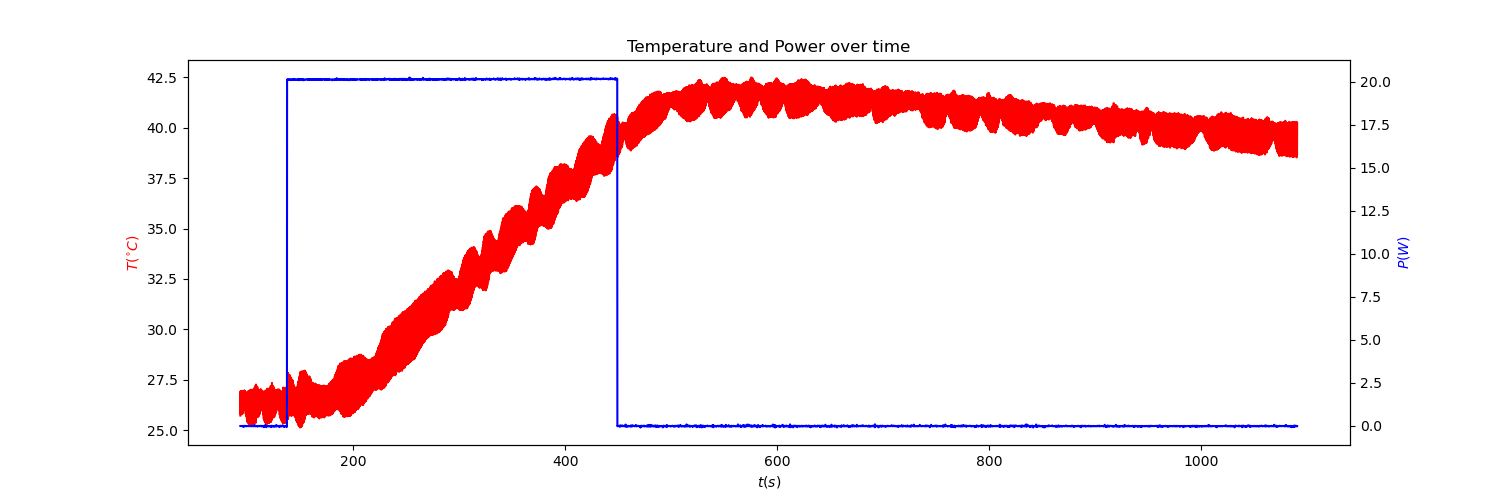
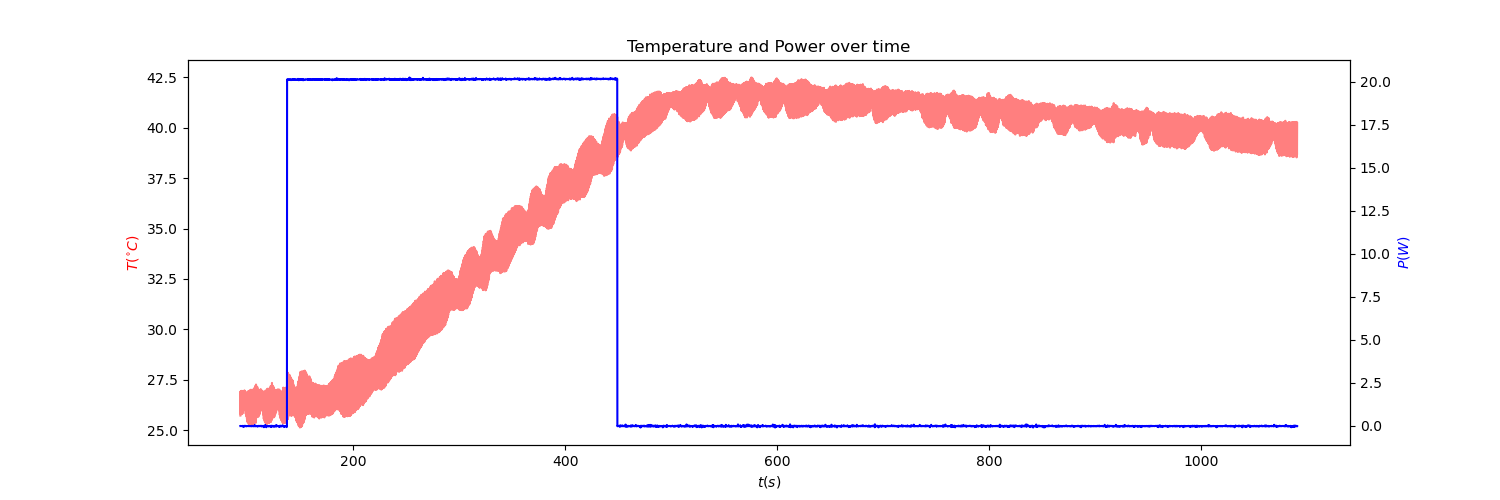
resonator

Changed region(s): [[0.1533, 0.15, 0.8893, 0.87]]

diff --git a/specificHeat/data2.py b/specificHeat/data2.py
@@ -4,7 +4,7 @@ import math
 import pandas as pd
 import matplotlib.pyplot as plt
 from scipy.optimize import curve_fit
-
+from uncertainties import *
 import os
 
 ## "only" task is to get value of c_Al and c_Al
@@ -14,26 +14,44 @@ cu_data = pd.read_csv("./Messung Al.csv")
 startIndex = 30
 timeAl = cu_data['Zeit'].tolist()[startIndex:]
 timeAl = [float(i) for i in timeAl]
+timeAl = [ufloat(i, 0.0001) for i in timeAl]
 chAlA = cu_data['Kanal A'].tolist()[startIndex:] #mV PT100
 chAlA = [float(i) for i in chAlA]
 chAlB = cu_data['Kanal B'].tolist()[startIndex:] #V
 chAlB = [float(i) for i in chAlB]
 
-AlT = [float(i)/0.4 for i in chAlA]
-AlP = [float(i)*1.49 for i in chAlB]
+AlT = [ufloat(i, 0.1)/0.4 for i in chAlA]
+AlP = [ufloat(i, 0.01)*1.49 for i in chAlB]
 
 reducer = 1
 timeAl = [timeAl[i] for i in range(len(timeAl)) if i%reducer==0]
 AlT = [AlT[i] for i in range(len(AlT)) if i%reducer==0]
 AlP = [AlP[i] for i in range(len(AlP)) if i%reducer==0]
 
+
+indexF = 0
+for index in range(len(AlP)):
+    if AlP[index].nominal_value>1:
+        indexF = index
+index1 = 0
+for index in range(len(AlP)):
+    if AlP[index].nominal_value>1:
+        index1 = index
+        break
+indexG = 0
+for index in range(len(timeAl)):
+    if(timeAl[indexF].nominal_value + 600 - timeAl[index].nominal_value) < 0.001:
+        indexG = index
+        break
+
 fig = plt.figure(figsize = (15,5))
 ax = fig.add_subplot(111)
 # ax.set_xticks(tickList, labels=[x for x in tickList])
 ax1 = ax.twinx()
-ax.plot(timeAl, AlT, color='red')
-ax1.plot(timeAl, AlP, color='blue')
-
+ax.plot([i.nominal_value for i in timeAl], [i.nominal_value for i in AlT], color='red', alpha=0.5)
+ax1.plot([i.nominal_value for i in timeAl], [i.nominal_value for i in AlP], color='blue')
+ax.scatter([timeAl[index1].nominal_value, timeAl[indexF].nominal_value, timeAl[indexG].nominal_value],
+           [AlT[index1].nominal_value, AlT[indexF].nominal_value, AlT[indexG].nominal_value], color='green')
 ax.set_ylabel(r'$T (^{\circ}C)$', color='red')
 # ax.set_ylim(top=60)
 ax1.set_ylabel(r'$P (W)$', color='blue')
@@ -48,38 +66,34 @@ os.system("kitty +kitten icat ./tmp2.png")
 
 
 def C_tot(time, T, P):
-    indexF = 0
-    for index in range(len(P)):
-        if P[index]>1:
-            indexF = index
-    index1 = 0
-    for index in range(len(P)):
-        if P[index]>1:
-            index1 = index
-            break
-    indexG = 0
-    for index in range(len(time)):
-        if(time[index1] + 600 - time[index]) < 0.001:
-            indexG = index
 
-
-    P = 20 ## Watt
-    dt = time[indexG] - time[index1] ## secondi
+    P = ufloat(np.mean(chAlB[index1:indexF])*1.49, np.std(chAlB[index1:indexF])) ## Watt
+    dt = time[indexF] - time[index1] ## secondi
     dT = T[indexG] - T[index1] ## °C
-    F = sum([i*(time[2]-time[1]) for i in T[index1:indexG]]) ## integral naturally expressed
-    def model(a, b, x):
-        return a*x+b
-    initial_guess = [-0.001, 45]
-    popt, pcov = curve_fit(model, time[indexF:indexG], T[indexF:indexG], p0=initial_guess)
-    print(popt)
-    T_prime = -0.0011 #(T[indexG] - T[indexF])/(time[indexG] - time[indexF]) ##LOOOL##
-    print(f'''({P}·{dt}·{dT})/({dT**2}-{T_prime}·{F})''')
-    return [(P * dt * dT)/(dT**2 - T_prime*F), popt, time[indexF:indexG]]
+    F_list = [i*(time[2]-time[1]) for i in T[index1:indexG]] ## integral naturally expressed
+    F = 0
+    for i in F_list:
+        F += i
+    # def model(a, b, x):
+    #     return a*x+b
+    # initial_guess = [-0.001, 45]
+    # popt, pcov = curve_fit(model, time[indexF:indexG], T[indexF:indexG], p0=initial_guess)
+    # print(popt)
+    T_prime = (T[indexG] - T[indexF])/(time[indexG] - time[indexF]) 
+    # print(f'''({P}·{dt}·{dT})/({dT**2}-{T_prime}·{F})''')
+    print(
+            f'''power: {P}
+            time using power: {dt}
+            temperature differential {dT}
+            slope of T(t) {T_prime}
+            integral of T(t) {F}
+            ''')
+    return [(P * dt * dT)/(dT**2 - T_prime*F), 'porcodio', 'diocane']
 M = 26.98153860 ## Atomic weight (grams/mol)
 m = 466 ## grams
 C_Al = (C_tot(timeAl, AlT, AlP)[0] - dt.C_water) * M/m
-print(C_tot(timeAl, AlT, AlP)[0])
-print(C_Al)
+print(C_tot(timeAl, AlT, AlP)[0].nominal_value, C_tot(timeAl, AlT, AlP)[0].std_dev)
+print(C_Al.nominal_value, C_Al.std_dev)
 
 # b, a = C_tot(timeAl, AlT, AlP)[1]
 # t = C_tot(timeAl, AlT, AlP)[2]

diff --git a/specificHeat/data.py b/specificHeat/data.py
@@ -3,7 +3,7 @@ import math
 import pandas as pd
 import matplotlib.pyplot as plt
 from scipy.optimize import curve_fit
-
+from uncertainties import *
 import os
 
 ## "only" task is to get value of c_Al and c_Cu
@@ -12,27 +12,45 @@ import os
 water_data = pd.read_csv("./Messung Wasser geschlossen.csv")
 startIndex = 700
 timeW = water_data['Zeit'].tolist()[startIndex:]
-timeW = [float(i) for i in timeW]
+timeW = [ufloat(float(i), 0.0001) for i in timeW]
 chwA = water_data['Kanal A'].tolist()[startIndex:] #mV PT100
 chwA = [float(i) for i in chwA]
 chwB = water_data['Kanal B'].tolist()[startIndex:] #V
 chwB = [float(i) for i in chwB]
 
-wT = [float(i)/0.4 for i in chwA]
-wP = [float(i)*1.49 for i in chwB]
+wT = [ufloat(i, 0.001)/0.4 for i in chwA]
+wP = [ufloat(i, 0.001)*1.49 for i in chwB]
 
 reducer = 1
 timeW = [timeW[i] for i in range(len(timeW)) if i%reducer==0]
 wT = [wT[i] for i in range(len(wT)) if i%reducer==0]
 wP = [wP[i] for i in range(len(wP)) if i%reducer==0]
 
+
+indexF = 0
+for index in range(len(wP)):
+    if wP[index].nominal_value>1:
+        indexF = index
+index1 = 0
+for index in range(len(wP)):
+    if wP[index].nominal_value>1:
+        index1 = index
+        break
+indexG = 0
+for index in range(len(timeW)):
+    if(timeW[indexF].nominal_value + 600 - timeW[index].nominal_value) < 0.001:
+        indexG = index
+        break
 fig = plt.figure(figsize = (15,5))
 ax = fig.add_subplot(111)
 # ax.set_xticks(tickList, labels=[x for x in tickList])
 ax1 = ax.twinx()
-ax.plot(timeW, wT, color='red')
-ax1.plot(timeW, wP, color='blue')
+ax.plot([i.nominal_value for i in timeW], [i.nominal_value for i in wT], color='red', alpha=0.5)
+ax1.plot([i.nominal_value for i in timeW], [i.nominal_value for i in wP], color='blue')
 
+# ax.scatter([timeW[index1].nominal_value, timeW[indexF].nominal_value, timeW[indexG].nominal_value],
+#           [wT[index1].nominal_value, wT[indexF].nominal_value, wT[indexG].nominal_value], color='green')
+# ax.xticks(np.append(plt.gca().get_xticks(), timeW[index1].nominal_value), labels=[*plt.gca().get_xticklabels(), r'$t_0$'])
 ax.set_ylabel(r'$T (^{\circ}C)$', color='red')
 # ax.set_ylim(top=60)
 ax1.set_ylabel(r'$P (W)$', color='blue')
@@ -42,31 +60,28 @@ ax.set_title('Temperature and Power over time')
 
 
 
-plt.savefig('./tmp0.png')
-os.system("kitty +kitten icat ./tmp0.png")
-
-
 def C_tot(time, T):
-    indexF = 0
-    for index in range(len(wP)):
-        if wP[index]>1:
-            indexF = index
-    index1 = 0
-    for index in range(len(wP)):
-        if wP[index]>1:
-            index1 = index
-            break
-    indexG = 0
-    for index in range(len(time)):
-        if(time[index1] + 600 - time[index]) < 0.001:
-            indexG = index
 
-    P = 20 ## Watt
-    dt = time[indexG] - time[index1] ## secondi
-    dT = T[indexG] - T[index1] ## °C
-    F = sum([i*(time[2]-time[1]) for i in T[index1:indexG]]) ## integral naturally expressed
-    T_prime = (T[indexG] - T[indexF])/(time[indexG] - time[indexF])
-
+    P = ufloat(np.mean(chwB[index1:indexF])*1.49, np.std(chwB[index1:indexF])) ## Watt sigma_W = 0.1 W
+    dt = time[indexF] - time[index1] ## secondi sigma_t = 0.001
+    dT = T[indexG] - T[index1 + 150] ## °C sigma_T = 1°C
+    F_list = [i*(time[2]-time[1]) for i in T[index1:indexG]] ## integral naturally expressed
+    F = 0
+    for i in F_list:
+        F += i
+    F += 20000
+    T_prime = (T[indexG] - T[indexF + 950])/(time[indexG] - time[indexF + 950])
+    print(
+            f'''
+            power: {P}
+            time using power: {dt}
+            temperature differential {dT}
+            slope of T(t) {T_prime}
+            integral of T(t) {F}
+            ''')
     return (P * dt * dT)/(dT**2 - T_prime*F)
 C_water = C_tot(timeW, wT)
-print(C_water)
+print(C_water.nominal_value, C_water.std_dev)
+
+plt.savefig('./tmp0.png')
+os.system("kitty +kitten icat ./tmp0.png")

diff --git a/specificHeat/data1.py b/specificHeat/data1.py
@@ -4,7 +4,7 @@ import math
 import pandas as pd
 import matplotlib.pyplot as plt
 from scipy.optimize import curve_fit
-
+from uncertainties import *
 import os
 
 ## "only" task is to get value of c_Al and c_Cu
@@ -14,26 +14,43 @@ cu_data = pd.read_csv("./Messung Cu.csv")
 startIndex = 1
 timeCu = cu_data['Zeit'].tolist()[startIndex:]
 timeCu = [float(i) for i in timeCu]
+timeCu = [ufloat(i, 0.0001) for i in timeCu]
 chCuA = cu_data['Kanal A'].tolist()[startIndex:] #mV PT100
 chCuA = [float(i) for i in chCuA]
 chCuB = cu_data['Kanal B'].tolist()[startIndex:] #V
 chCuB = [float(i) for i in chCuB]
 
-CuT = [float(i)/0.4 for i in chCuA]
-CuP = [float(i)*1.49 for i in chCuB]
+CuT = [ufloat(i, 0.1)/0.4 for i in chCuA]
+CuP = [ufloat(i, 0.01)*1.49 for i in chCuB]
 
 reducer = 1
 timeCu = [timeCu[i] for i in range(len(timeCu)) if i%reducer==0]
 CuT = [CuT[i] for i in range(len(CuT)) if i%reducer==0]
 CuP = [CuP[i] for i in range(len(CuP)) if i%reducer==0]
 
+indexF = 0
+for index in range(len(CuP)):
+    if CuP[index].nominal_value>1:
+        indexF = index
+index1 = 0
+for index in range(len(CuP)):
+    if CuP[index].nominal_value>1:
+        index1 = index
+        break
+indexG = 0
+for index in range(len(timeCu)):
+    if(timeCu[indexF].nominal_value + 600 - timeCu[index].nominal_value) < 0.001:
+        indexG = index
+        break
+
 fig = plt.figure(figsize = (15,5))
 ax = fig.add_subplot(111)
 # ax.set_xticks(tickList, labels=[x for x in tickList])
 ax1 = ax.twinx()
-ax.plot(timeCu, CuT, color='red')
-ax1.plot(timeCu, CuP, color='blue')
-
+ax.plot([i.nominal_value for i in timeCu], [i.nominal_value for i in CuT], color='red', alpha=0.5)
+ax1.plot([i.nominal_value for i in timeCu], [i.nominal_value for i in CuP], color='blue')
+ax.scatter([timeCu[index1].nominal_value, timeCu[indexF + 150].nominal_value, timeCu[indexG].nominal_value],
+           [CuT[index1].nominal_value, CuT[indexF + 150].nominal_value, CuT[indexG].nominal_value], color='green')
 ax.set_ylabel(r'$T (^{\circ}C)$', color='red')
 # ax.set_ylim(top=60)
 ax1.set_ylabel(r'$P (W)$', color='blue')
@@ -48,29 +65,25 @@ os.system("kitty +kitten icat ./tmp1.png")
 
 
 def C_tot(time, T, P):
-    indexF = 0
-    for index in range(len(P)):
-        if P[index]>1:
-            indexF = index
-    index1 = 0
-    for index in range(len(P)):
-        if P[index]>1:
-            index1 = index
-            break
-    indexG = 0
-    for index in range(len(time)):
-        if(time[index1] + 600 - time[index]) < 0.001:
-            indexG = index
-
-    P = 20 ## Watt
-    dt = time[indexG] - time[index1] ## secondi
+    P = ufloat(np.mean(chCuB[index1:indexF])*1.49, np.std(chCuB[index1:indexF])) ## Watt
+    dt = time[indexF] - time[index1] ## secondi
     dT = T[indexG] - T[index1] ## °C
-    F = sum([i*(time[2]-time[1]) for i in T[index1:indexG]]) ## integral naturally expressed
-    T_prime = (T[indexG] - T[indexF])/(time[indexG] - time[indexF])
+    F_list = [i*(time[2]-time[1]) for i in T[index1:indexG]] ## integral naturally expressed
+    F = 0
+    for i in F_list:
+        F += i
+    T_prime = (T[indexG] - T[indexF + 150])/(time[indexG] - time[indexF + 150])
     print(f'''({P}·{dt}·{dT})/({dT**2}-{T_prime}·{F})''')
+    print(
+            f'''power: {P}
+            time using power: {dt}
+            temperature differential {dT}
+            slope of T(t) {T_prime}
+            integral of T(t) {F}
+            ''')
     return (P * dt * dT)/(dT**2 - T_prime*F)
 M = 63.5460 ## Atomic weight (grams/mol)
 m = 1532 ## grams
-C_Cu = (C_tot(timeCu, CuT, CuP) - dt.C_water) * M/m
-print(C_tot(timeCu, CuT, CuP))
-print(C_Cu)
+C_Cu = (C_tot(timeCu, CuT, CuP) ) * M/m
+print(C_tot(timeCu, CuT, CuP).nominal_value, C_tot(timeCu, CuT, CuP).std_dev)
+print(C_Cu.nominal_value, C_Cu.std_dev)

diff --git a/resonator/data.py b/resonator/data.py
@@ -1,0 +1,17 @@
+import numpy as n
+import os 
+import pandas as pd
+from scipy.optimize import curve_fit
+
+df = pd.read_csv("data.csv", delimiter=";")
+f = df["Frequency [Hz]"]
+f = [i for i in f]
+X = df["Amplitude [mV]"]
+X = [i for i in X]
+phi = df["Phase [mV/cyc.]"]
+phi = [i for i in phi]
+
+### task 1: fit amplitude/frequency to find max --> resonance freq
+###         fit phase/frequency
+
+
